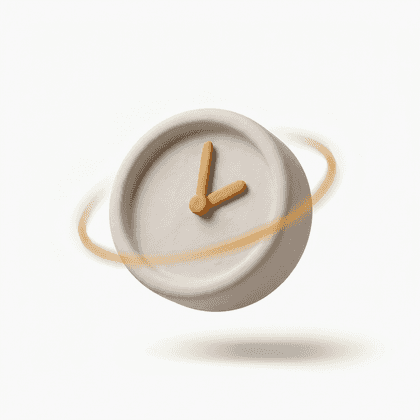
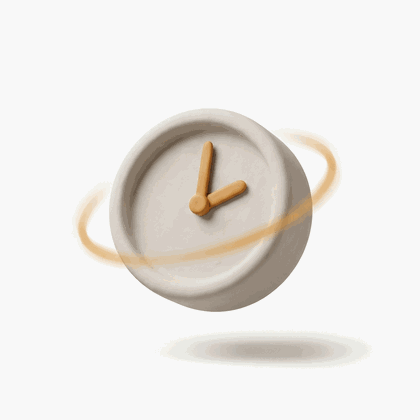
One picture per language, and the objects sized for email
The three booking pictures become twelve, one per language, so a French
customer sees "Rendez-vous confirme" inside the picture rather than the
German. Same card, same photo, only the words change.

The three clay objects drop from 1024px to 420px, which is what an email
actually needs. Done with PIL, not sharp: sharp is not in package.json,
it was borrowed from the parent checkout, so a clean install would have
broken the render.

diff --git a/scripts/resize-email-objects.py b/scripts/resize-email-objects.py
@@ -1,0 +1,80 @@
+#!/usr/bin/env python3
+"""
+scripts/resize-email-objects.py , shrink the three 3D object renders for email, with PIL.
+
+WHY THIS IS A SEPARATE SCRIPT AND NOT sharp() INSIDE build-email-art.mjs (moved out 2026-08-26):
+`npm ls sharp` reports `sharp@0.34.5 extraneous -> ../../../node_modules/sharp` , it is not in
+package.json, it was only ever there because this worktree's node_modules sits under a parent
+checkout that happens to have it installed for something else. A fresh `npm ci` on a clean clone
+would not have it, and build-email-art.mjs would fail on the one step that imported it. The fix
+is not to declare it for one call site; this repo already resizes PNGs with PIL for the exact
+same job (scripts/build-email-assets.py's build_category_icons()), so the object-icon step moves
+here instead. build-email-art.mjs invokes this as a subprocess (Playwright plus Python, both
+already real dependencies of this repo) and reads back one JSON line from stdout. Do not re-add
+sharp to fix this again , if the day comes to render richer than PIL can do, extend this script.
+
+QUANTIZER, measured before picking it: PIL's default `Image.ADAPTIVE` palette at the same 128
+colours sharp used landed at 83.8 KB and 87.9 KB for two of the three objects, over the 60 KB
+budget these are given. `Image.quantize(method=Image.Quantize.FASTOCTREE)` at the same 128
+colours landed all three at 9.1-13.4 KB, checked by eye against the un-quantized resize for
+banding on the smooth clay gradients (none visible) before picking it , octree quantization
+suits these flat-region matte-clay renders the same way sharp's palette pass did.
+
+Run: python3 scripts/resize-email-objects.py
+In:  public/_email-assets/generated/obj-{confirmed,cancelled,reminder}.png (untouched)
+Out: public/_email-assets/art/obj-{confirmed,cancelled,reminder}.png (420px wide, quantized)
+     one JSON line on stdout: [{"file","bytes","width","height"}, ...] for the caller to read
+"""
+import json
+import os
+import sys
+
+from PIL import Image
+
+HERE = os.path.dirname(os.path.abspath(__file__))
+ROOT = os.path.dirname(HERE)
+SRC_DIR = os.path.join(ROOT, "public", "_email-assets", "generated")
+OUT_DIR = os.path.join(ROOT, "public", "_email-assets", "art")
+
+OBJECTS = ["obj-confirmed.png", "obj-cancelled.png", "obj-reminder.png"]
+TARGET_WIDTH = 420
+COLORS = 128
+MAX_BYTES = 60 * 1024  # kept equal to build-email-art.mjs's OBJECT_MAX_BYTES on purpose
+
+
+def resize_and_quantize(name):
+    src = Image.open(os.path.join(SRC_DIR, name)).convert("RGB")
+    w, h = src.size
+    new_h = round(h * TARGET_WIDTH / w)
+    resized = src.resize((TARGET_WIDTH, new_h), Image.LANCZOS)
+    quantized = resized.quantize(
+        colors=COLORS, method=Image.Quantize.FASTOCTREE, dither=Image.Dither.FLOYDSTEINBERG
+    )
+    out_path = os.path.join(OUT_DIR, name)
+    quantized.save(out_path, format="PNG", optimize=True)
+    return {
+        "file": name,
+        "bytes": os.path.getsize(out_path),
+        "width": quantized.width,
+        "height": quantized.height,
+    }
+
+
+if __name__ == "__main__":
+    os.makedirs(OUT_DIR, exist_ok=True)
+    results = [resize_and_quantize(name) for name in OBJECTS]
+
+    for r in results:
+        print(f"  {r['bytes'] / 1024:6.1f} KB  {r['file']}", file=sys.stderr)
+
+    over = [r for r in results if r["bytes"] > MAX_BYTES]
+    if over:
+        print(
+            "asset too heavy for email: "
+            + ", ".join(f"{r['file']} ({r['bytes'] / 1024:.1f} KB, budget {MAX_BYTES / 1024:.0f} KB)" for r in over),
+            file=sys.stderr,
+        )
+        sys.exit(1)
+
+    # The one line a caller should parse; everything else above goes to stderr on purpose.
+    print(json.dumps(results))
